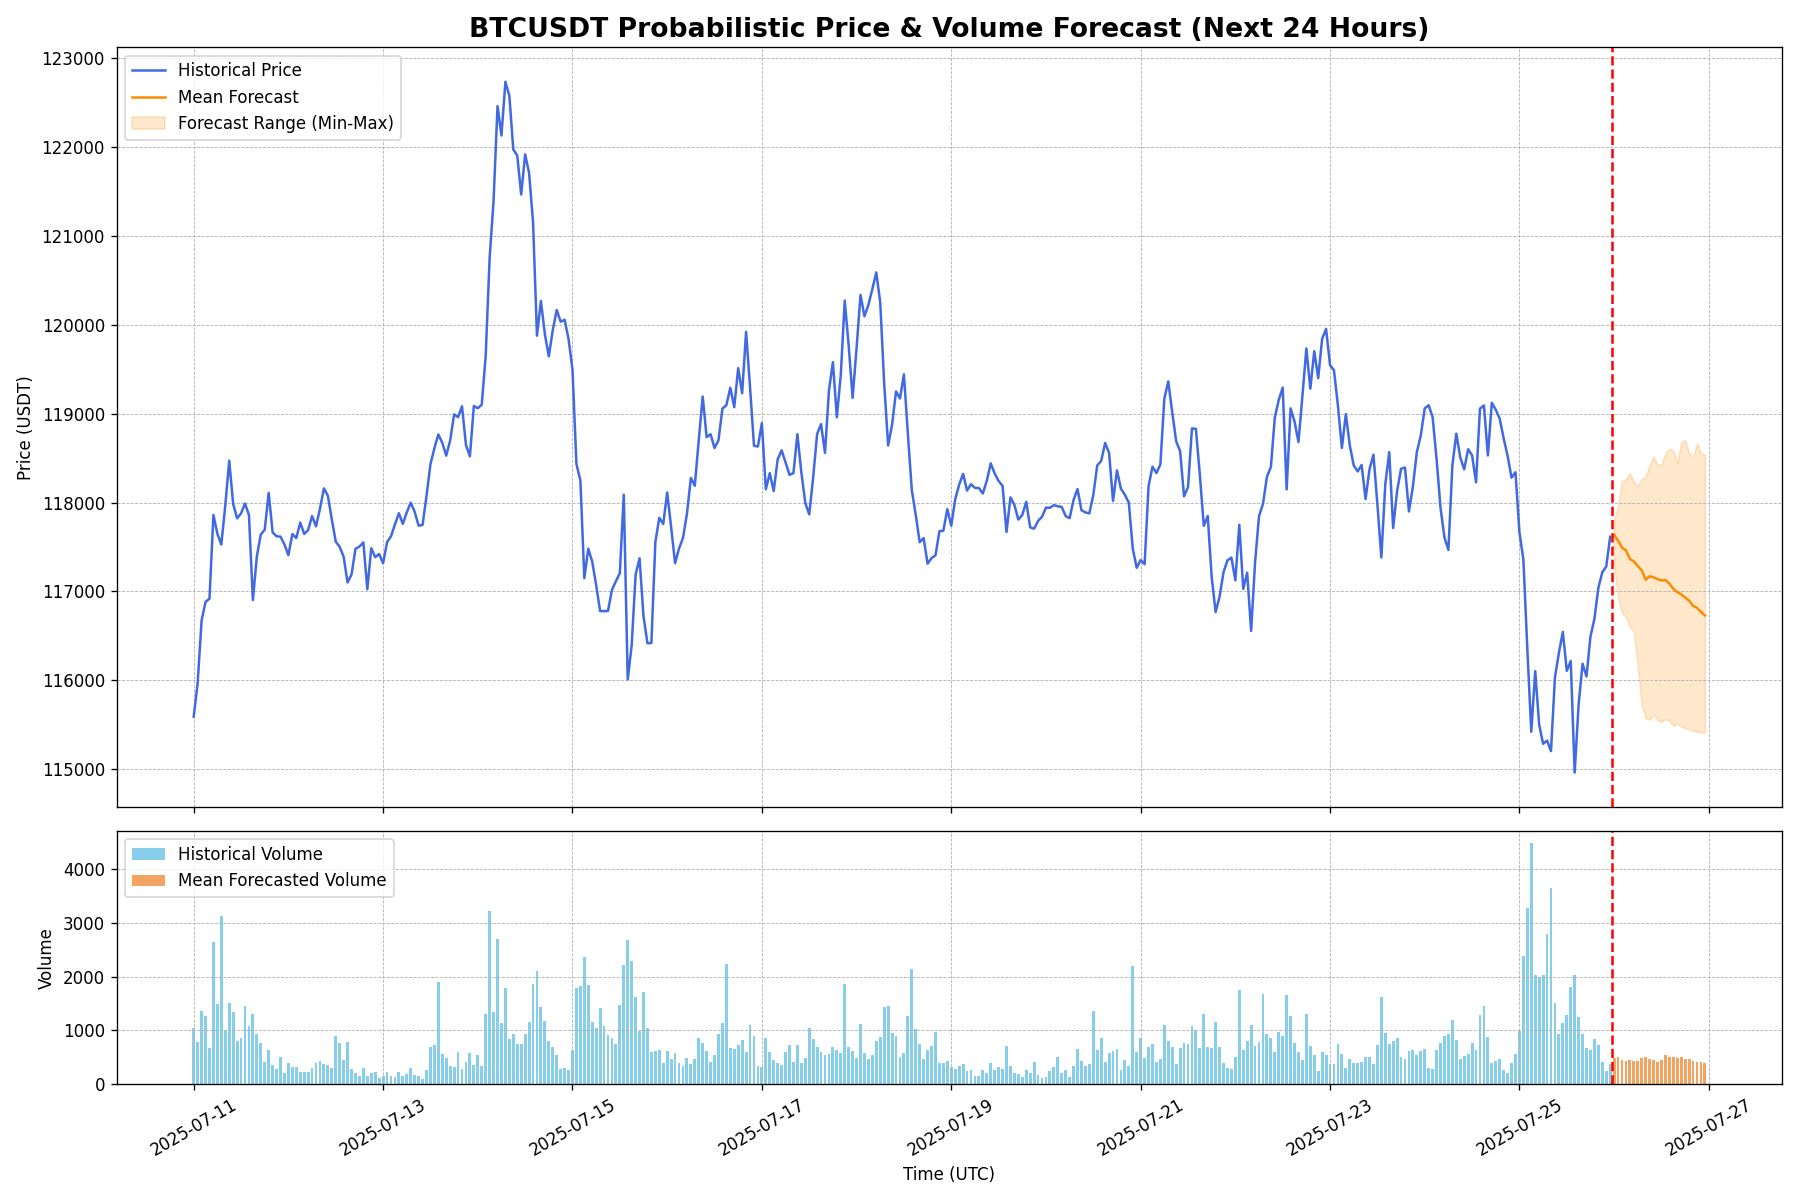
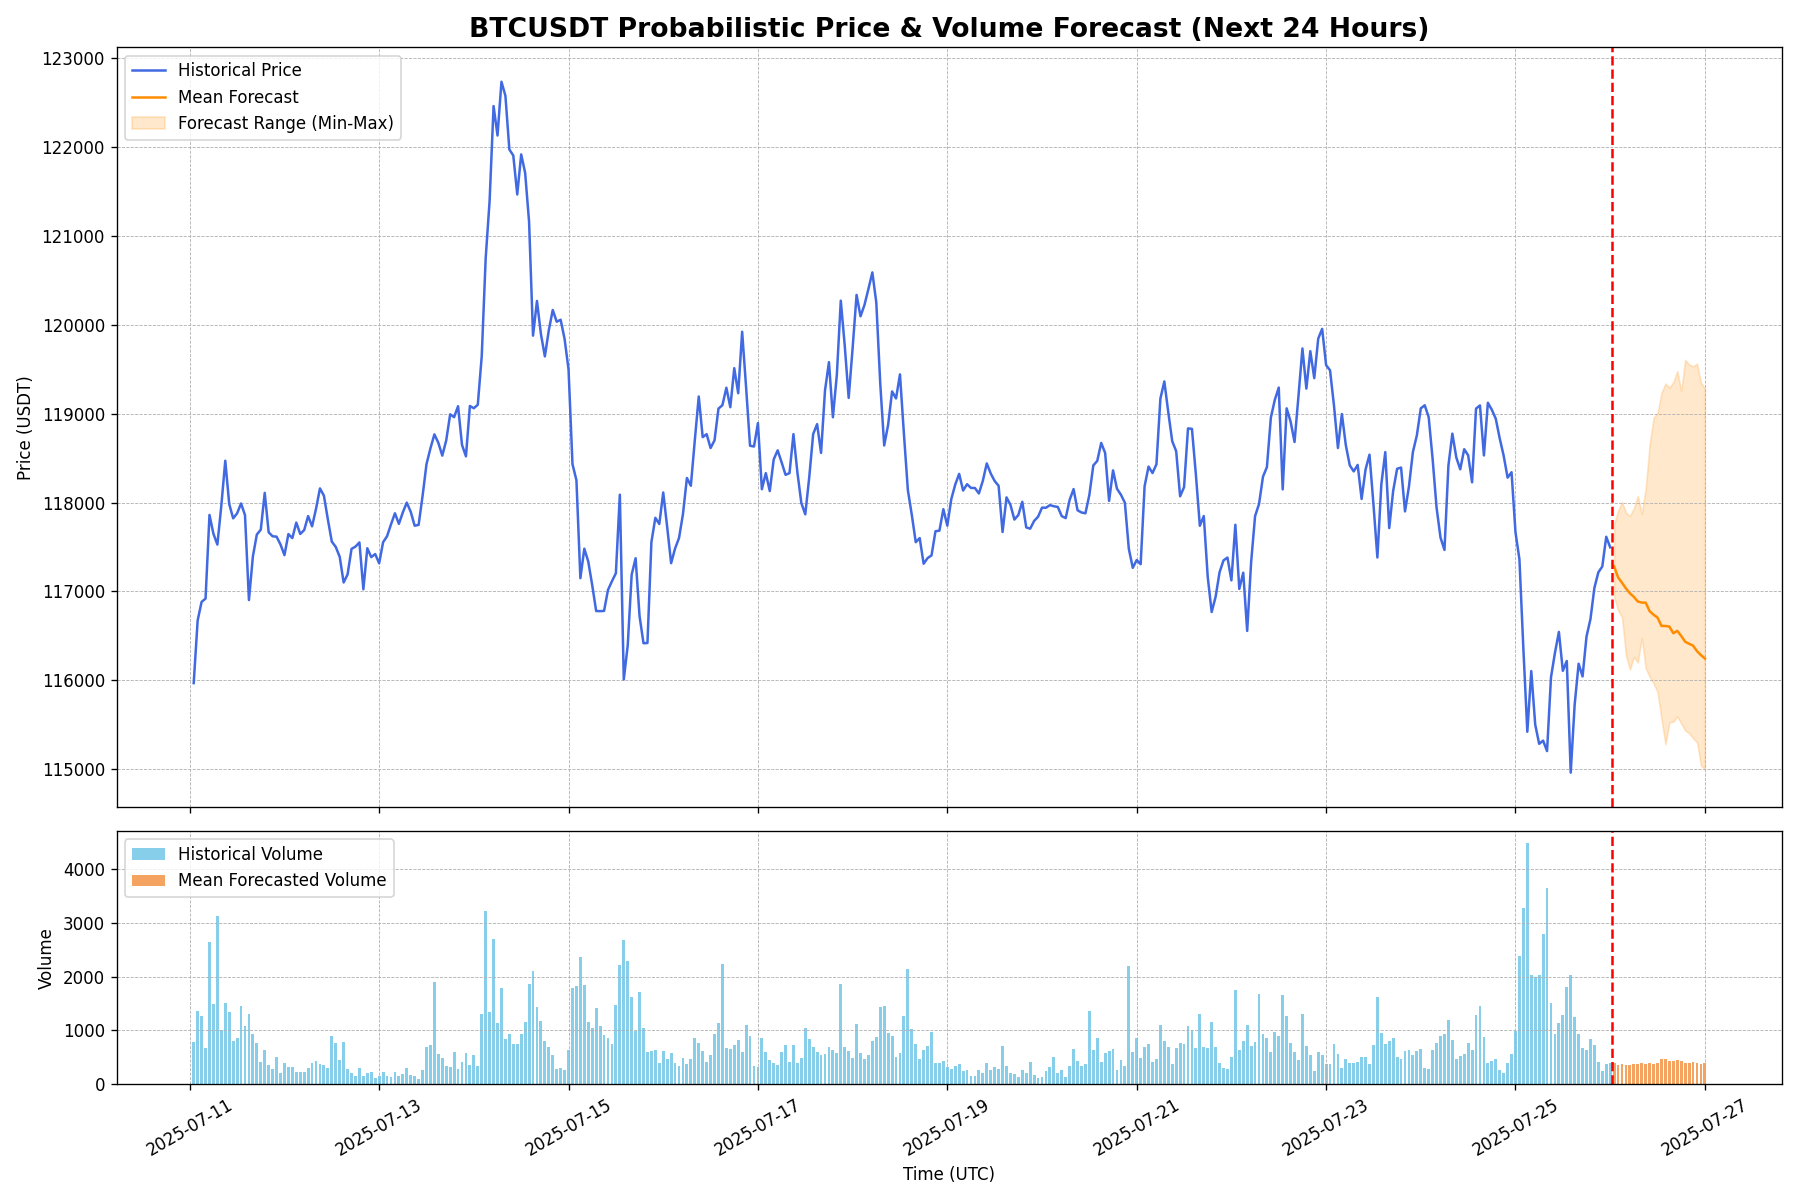
Auto-update forecast for 2025-07-26 01:05 UTC

diff --git a/index.html b/index.html
@@ -22,14 +22,14 @@
         <section id="live-dashboard">
             <h2>Live BTC/USDT Forecast Dashboard</h2>
             <div class="metadata">
-                <span>Last Updated (UTC): <strong id="update-time">2025-07-26 00:05:55</strong></span>
+                <span>Last Updated (UTC): <strong id="update-time">2025-07-26 01:05:55</strong></span>
                 <span>Data Source: Binance | Interval: 1-Hour</span>
             </div>
 
             <div class="metrics-container">
                 <div class="metric-card">
                     <h3>Upside Probability (Next 24h)</h3>
-                    <p class="metric-value" id="upside-prob">30.0%</p>
+                    <p class="metric-value" id="upside-prob">6.7%</p>
                     <div class="metric-desc">The model's confidence that the price in 24 hours will be higher than the last known price.</div>
                 </div>
                 <div class="metric-card">
